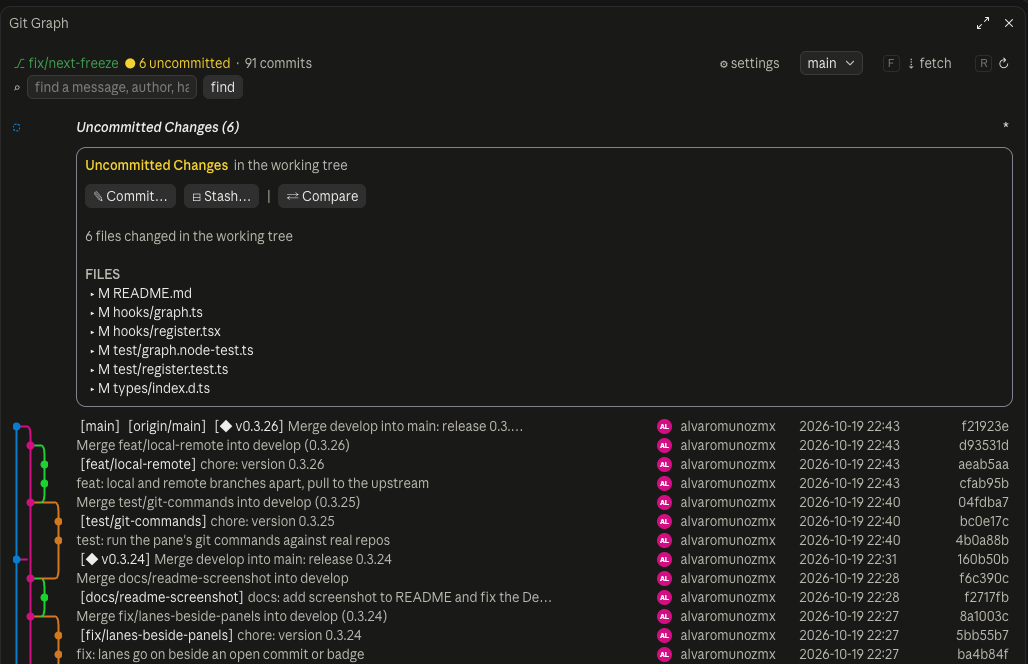
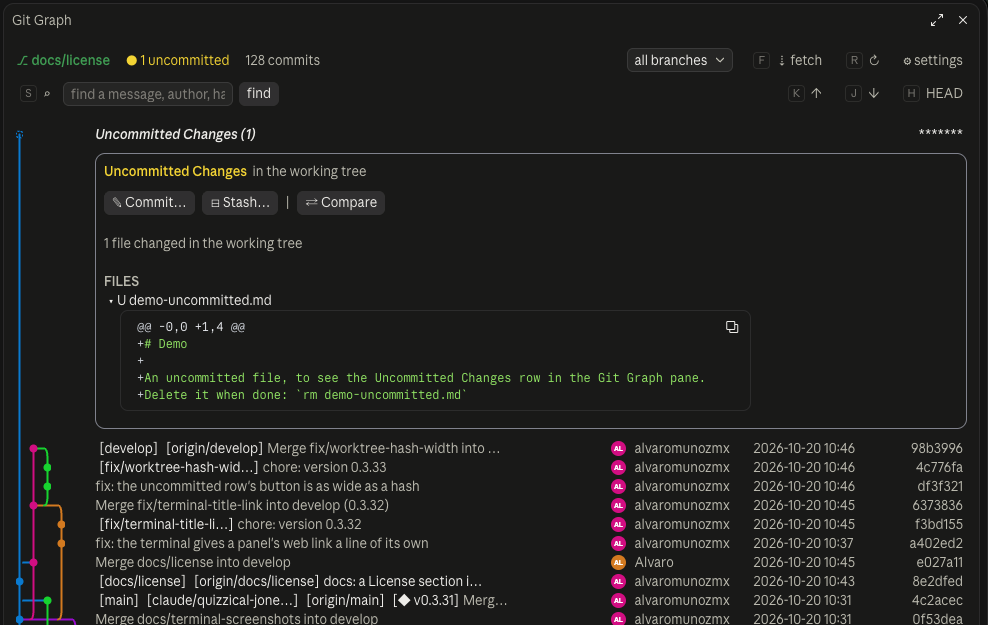
docs: the uncommitted changes screenshot with the new header and a diff open

diff --git a/README.md b/README.md
@@ -61,9 +61,9 @@ Then run `/reload-plugins` (or start a new session) and `/git-graph`.
   - **rebase current onto this**.
   - **reset current to this**: then pick **soft** (keep the changes staged), **mixed** (keep them unstaged) or **hard** (discard them).
 
-Uncommitted changes, opened: the files changed in the working tree, with **✎ Commit…**, **⊟ Stash…** and **⇄ Compare**.
+Uncommitted changes, opened from their `*******`: the files changed in the working tree, with **✎ Commit…**, **⊟ Stash…** and **⇄ Compare**, here with a new file's diff open.
 
-<img alt="The uncommitted changes opened in the Git Graph pane: the files changed, and buttons to commit, stash or compare them" src=".github/uncommitted.png" />
+<img alt="The uncommitted changes opened in the Git Graph pane: the files changed, one with its diff open, and buttons to commit, stash or compare them" src=".github/uncommitted.png" />
 
 A commit, opened: its actions in groups, the author and date, its lines added and deleted, its message with links, and its files, each opening its diff.
 
